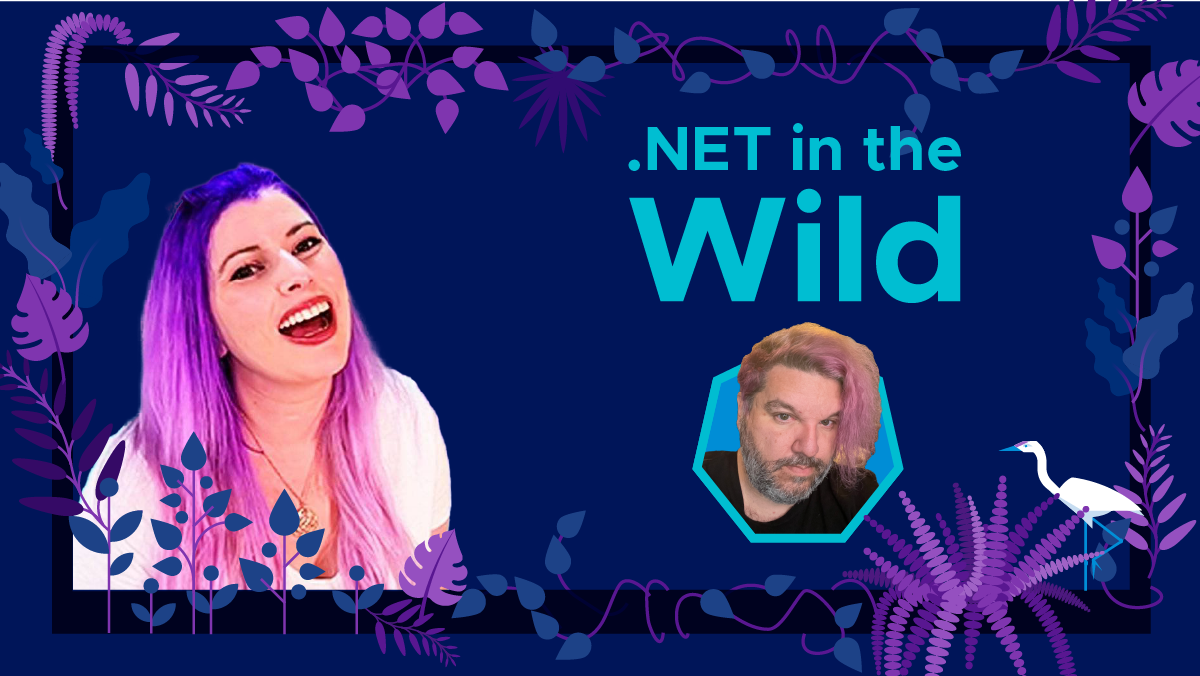
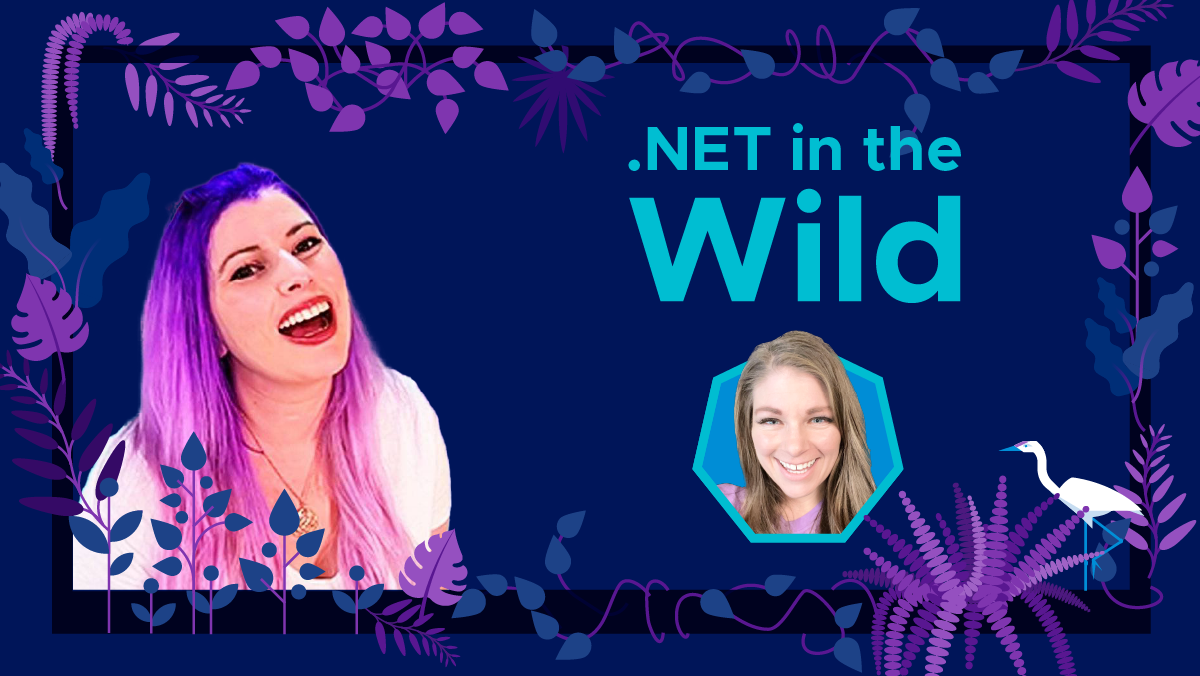
Updated .NET in the Wild with a new show and reordered following (#1436)

Changed region(s): [[0.5858, 0.466, 0.74, 0.8077]]

diff --git a/content/tv/dotnet-wild/0002/index.md b/content/tv/dotnet-wild/0002/index.md
@@ -1,27 +1,24 @@
 ---
-Date: '2021-12-07T16:30:00-00:00'
-Description: .NET in the Wild with Matty Stratton
-PublishDate: '2021-11-19T00:00:00-00:00'
+Date: '2021-11-30T16:30:00-00:00'
+Description: .NET in the Wild with Alyssa Nicholl
+PublishDate: '2021-11-24T00:00:00-00:00'
 aliases:
 - /tv/dotnet-wild/2
 author: laylap
-date: '2021-12-07'
+date: '2021-11-30'
 episode: '2'
 explicit: 'yes'
 hosts:
 - Layla Porter
-lastmod: '2021-11-19'
-title: Matty Stratton tries to teach Layla DevOps!
+lastmod: '2021-11-24'
+title: Alyssa Nicholl and Layla talk about being a JS Girl in a .NET World!
 truncate: ''
 twitch: vmwaretanzu
 type: tv-episode
 youtube: 
 ---
 
-Layla is joined by Matt Stratton, a Staff Developer Advocate at Pulumi, founder and co-host of the popular Arrested DevOps podcast, and the global chair of the DevOpsDays set of conferences.
+Layla is joined by Alyssa,  an Angular Developer Advocate for Kendo UI and a Google Developer Expert for Angular. Alyssa has spoken at over 30 conferences Internationally. She streams weekly on the Angular Air podcast and Twitch CodeItLive channel. She enjoys gaming, scuba diving, and has a little one that fondly goes by "Mr. Milks".
 
-Matt has over 20 years of experience in IT operations and is a sought-after speaker internationally, presenting at Agile, DevOps, and cloud engineering focused events worldwide. Demonstrating his keen insight into the changing landscape of technology, he recently changed his license plate from DEVOPS to KUBECTL.
-
-He lives in Chicago and has three awesome kids, whom he loves just a little bit more than he loves Diet Coke. Matt is the keeper of the Thought Leaderboard for the DevOps Party Games online game show and you can find him on Twitter at @mattstratton.
-
-- [Twitter](https://twitter.com/mattstratton)
+- [Twitter](https://twitter.com/AlyssaNicoll)
+- [Twitch](https://twitch.tv/CodeItLive)

diff --git a/content/tv/dotnet-wild/0003/index.md b/content/tv/dotnet-wild/0003/index.md
@@ -1,23 +1,27 @@
 ---
-Date: '2021-12-14T16:30:00-00:00'
-Description: .NET in the Wild with Luce Carter
+Date: '2021-12-07T16:30:00-00:00'
+Description: .NET in the Wild with Matty Stratton
 PublishDate: '2021-11-19T00:00:00-00:00'
 aliases:
 - /tv/dotnet-wild/3
 author: laylap
-date: '2021-12-14'
+date: '2021-12-07'
 episode: '3'
 explicit: 'yes'
 hosts:
 - Layla Porter
-lastmod: '2021-11-19'
-title: Luce Carter and Layla talk imposter syndrome with a bit of MongoDB!
+lastmod: '2021-11-24'
+title: Matty Stratton tries to teach Layla DevOps!
 truncate: ''
 twitch: vmwaretanzu
 type: tv-episode
 youtube: 
 ---
 
-Layla is joined by Luce Carter, a Developer Advocate at MongoDB. Luce is also a proud Microsoft MVP. When not writing code, creating videos, streaming on Twitch or working on her upcoming book on MongoDB Atlas and .NET, she can be found at the gym, going for walks or trying to help people battle imposter syndrome one line of code or story at a time!
+Layla is joined by Matt Stratton, a Staff Developer Advocate at Pulumi, founder and co-host of the popular Arrested DevOps podcast, and the global chair of the DevOpsDays set of conferences.
 
-- [Twitter](https://twitter.com/lucecarter1)
+Matt has over 20 years of experience in IT operations and is a sought-after speaker internationally, presenting at Agile, DevOps, and cloud engineering focused events worldwide. Demonstrating his keen insight into the changing landscape of technology, he recently changed his license plate from DEVOPS to KUBECTL.
+
+He lives in Chicago and has three awesome kids, whom he loves just a little bit more than he loves Diet Coke. Matt is the keeper of the Thought Leaderboard for the DevOps Party Games online game show and you can find him on Twitter at @mattstratton.
+
+- [Twitter](https://twitter.com/mattstratton)

diff --git a/content/tv/dotnet-wild/0004/index.md b/content/tv/dotnet-wild/0004/index.md
@@ -1,0 +1,23 @@
+---
+Date: '2021-12-14T16:30:00-00:00'
+Description: .NET in the Wild with Luce Carter
+PublishDate: '2021-11-19T00:00:00-00:00'
+aliases:
+- /tv/dotnet-wild/4
+author: laylap
+date: '2021-12-14'
+episode: '4'
+explicit: 'yes'
+hosts:
+- Layla Porter
+lastmod: '2021-11-24'
+title: Luce Carter and Layla talk imposter syndrome with a bit of MongoDB!
+truncate: ''
+twitch: vmwaretanzu
+type: tv-episode
+youtube: 
+---
+
+Layla is joined by Luce Carter, a Developer Advocate at MongoDB. Luce is also a proud Microsoft MVP. When not writing code, creating videos, streaming on Twitch or working on her upcoming book on MongoDB Atlas and .NET, she can be found at the gym, going for walks or trying to help people battle imposter syndrome one line of code or story at a time!
+
+- [Twitter](https://twitter.com/lucecarter1)
